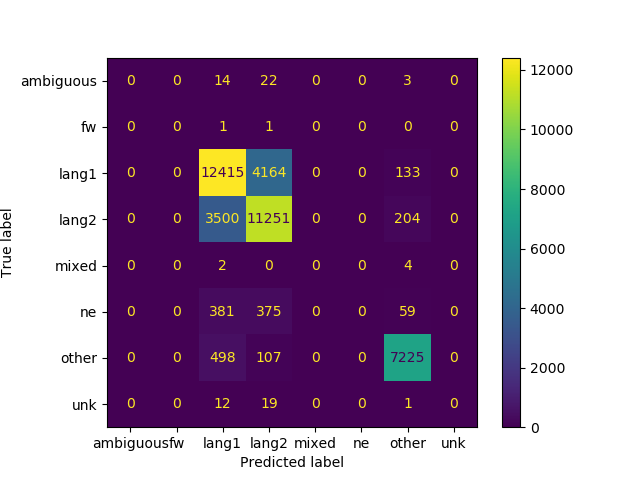
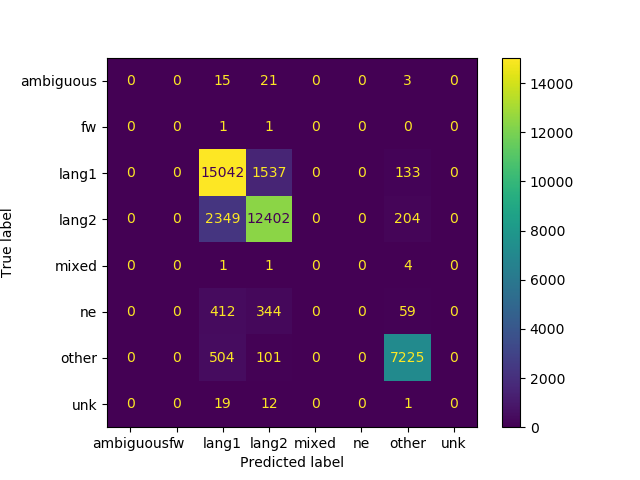
discovered and fixed bug where ngrams were skipped

diff --git a/ngrams/ngrams.py b/ngrams/ngrams.py
@@ -51,38 +51,38 @@ class NGramModel:
 
 	def get_word_log_prob(self, word):
 		word_log_prob = 0
-		for i in range(len(word)):
-			prob = 0
-			if (self.n == 2):
+		if (self.n == 2):
+			for i in range(len(word) + 1):
 				if (i == 0):
 					bigram = ('<w>', word[i])
 					unigram = ('<w>',)
-				elif (i == len(word) - 1):
-					bigram = (word[i], ('</w>',))
-					unigram = (word[i],)
+				elif (i == len(word)):
+					bigram = (word[i-1], ('</w>',))
+					unigram = (word[i-1],)
 				else:
-					bigram = (word[i], word[i+1])
-					unigram = (word[i],)
+					bigram = (word[i-1], word[i])
+					unigram = (word[i-1],)
 				prob = self.get_freq(bigram) / self.get_freq(unigram)
+				word_log_prob += np.log(prob)
 			
-			elif (self.n == 3):
+		elif (self.n == 3):
+			for i in range(len(word) + 2):
 				if (i == 0):
 					trigram = ('<w>', '<w>', word[i])
 					bigram = ('<w>', '<w>')
 				elif (i == 1):
-					trigram = ('<w>', word[i], word[i+1]) if len(word) > 2 else ('<w>', word[i], '</w>')
-					bigram = ('<w>', word[i])
-				elif (i == len(word) - 2):
-					trigram = (word[i], word[i+1], '</w>')
-					bigram = (word[i], word[i+1])
-				elif (i == len(word) -1):
-					trigram = (word[i], '</w>', '</w>')
-					bigram = (word[i], '</w>')
+					trigram = ('<w>', word[i-1], word[i]) if len(word) >= 2 else ('<w>', word[i-1], '</w>')
+					bigram = ('<w>', word[i-1])
+				elif (i == len(word)):
+					trigram = (word[i-2], word[i-1], '</w>')
+					bigram = (word[i-2], word[i-1])
+				elif (i == len(word) + 1):
+					trigram = (word[i-2], '</w>', '</w>')
+					bigram = (word[i-2], '</w>')
 				else:
-					trigram = (word[i], word[i+1], word[i+2])
-					bigram = (word[i], word[i+1])
+					trigram = (word[i-2], word[i-1], word[i])
+					bigram = (word[i-2], word[i-1])
 				prob = self.get_freq(trigram) / self.get_freq(bigram)
-
-			word_log_prob += np.log(prob)
+				word_log_prob += np.log(prob)
 
 		return word_log_prob

diff --git a/code_switching_v2.py b/code_switching_v2.py
@@ -72,6 +72,8 @@ print(acc)
 # 0.3306321355653757 # first try with unigrams and bigrams
 # 0.7512812260156966 # after fixing bug (string type vs. tuple type)
 # 0.7647990889059444 # using bigrams and trigrams
+# 0.7778960659552870 # using unigrams and bigrams, fixed bug when ngrams are skipped (explain on old code)
+# 0.8583347775494541 # using bigrams and trigrams on fixed code
 
 # Fq score
 f1 = f1_score(t, y, average=None)
